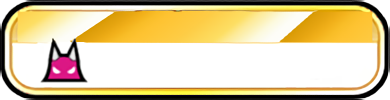
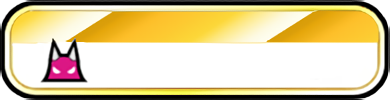
TNDE 選曲: 自己ベストの帯を枠の形に沿ってなめらかに描き直し、ランクの縁を少し太く
Claude-Session: https://claude.ai/code/session_01Me3BaKaMLtBydUuL8JSFsg

diff --git a/src/home/tndeselect.ts b/src/home/tndeselect.ts
@@ -213,6 +213,28 @@ export class TndeSelect {
     }
   }
 
+  private sils = new Map<string, Img>();
+  /** 絵の形だけを黒くしたもの（縁を太くするのに使う） */
+  private silhouette(name: string): Img | undefined {
+    const have = this.sils.get(name);
+    if (have) return have;
+    const m = this.imgs.get(name);
+    if (!m) return undefined;
+    const o = document.createElement('canvas');
+    o.width = m.im.width; o.height = m.im.height;
+    const g = o.getContext('2d')!;
+    g.drawImage(m.im, 0, 0);
+    g.globalCompositeOperation = 'source-in';
+    g.fillStyle = '#120c10';
+    g.fillRect(0, 0, o.width, o.height);
+    const r = { ...m, im: o };
+    this.sils.set(name, r);
+    return r;
+  }
+  private blitImg(m: Img | undefined, sx: number, sy: number, sw: number, sh: number, dx: number, dy: number, dw: number, dh: number) {
+    if (m) this.g.drawImage(m.im, (sx - m.x) * m.k, (sy - m.y) * m.k, sw * m.k, sh * m.k, dx, dy, dw, dh);
+  }
+
   private tints = new Map<string, Img>();
   /** 絵の色を塗り替える（もとの色 base からの明るさの比で。黒い縁はそのまま） */
   private tinted(name: string, base: number[], to: number[], skip?: (r: number, g: number, b: number) => boolean): Img | undefined {
@@ -928,7 +950,16 @@ export class TndeSelect {
       // 王冠・ランクは本家の画面に絵を重ねて測った位置・大きさ
       this.blit('diffCrown', cr * 24.5, 0, 24.5, 26, x + 21, 405 + 23, 24.5 * 1.47, 26 * 1.47);
       const r = b ? rankOf(b.score) : 0;
-      if (r > 0) this.blit('diffRank', 0, (r - 1) * 42.71, 50, 42.71, x + 56, 405 + 20, 50 * 0.89, 42.71 * 0.89);
+      if (r > 0) {
+        // 本家はランクの黒い縁が少し太い: 黒い影を周りに少しずらして重ねてから描く
+        // （影は上の 2 px を切る。1 つ上のランクの端が少しかかっているため）
+        const sy = (r - 1) * 42.71, k = 0.89, R = 1.2;
+        for (let a = 0; a < 16; a++) {
+          const ox = Math.cos((a / 16) * Math.PI * 2) * R, oy = Math.sin((a / 16) * Math.PI * 2) * R;
+          this.blitImg(this.silhouette('diffRank'), 0, sy + 2, 50, 40.71, x + 56 + ox, 405 + 20 + 2 * k + oy, 50 * k, 40.71 * k);
+        }
+        this.blit('diffRank', 0, sy, 50, 42.71, x + 56, 405 + 20, 50 * k, 42.71 * k);
+      }
     });
     // 1P の吹き出し（出てくるとき下りてくる。動かすと少し跳ねる）
     const inT = (this.diffT - 1255) / 4;

diff --git a/tools/skin/select.py b/tools/skin/select.py
@@ -136,57 +136,68 @@ for n in ['Credit', 'Point']:
 
 
 # 本家の自己ベストの帯の色（段の左の縁から右の縁までを 0〜1 として → RGB。本家の画面からスポイトで取った）
-BAND = [(0, (216, 155, 4)), (0.03, (221, 158, 11)), (0.094, (231, 166, 18)), (0.156, (242, 177, 27)), (0.22, (249, 190, 40)),
-        (0.28, (254, 195, 49)), (0.5, (254, 205, 70)), (0.68, (253, 223, 100)), (0.74, (254, 234, 150)), (0.8, (252, 242, 185)),
-        (0.86, (252, 250, 223)), (0.93, (253, 253, 247)), (1, (254, 254, 250))]
-
-
-def band_rgb(t):
-    xs = [b[0] for b in BAND]
-    return np.array([np.interp(t, xs, [b[1][c] for b in BAND]) for c in range(3)])
+BAND = [(0, (216, 157, 8)), (0.06, (219, 159, 12)), (0.1, (230, 167, 11)), (0.14, (234, 172, 20)), (0.18, (239, 178, 26)),
+        (0.22, (248, 185, 35)), (0.26, (253, 191, 41)), (0.3, (254, 194, 45)), (0.45, (253, 203, 50)), (0.58, (252, 213, 55)),
+        (0.62, (253, 216, 58)), (0.66, (253, 222, 82)), (0.7, (253, 229, 114)), (0.74, (253, 234, 141)), (0.78, (254, 239, 165)),
+        (0.82, (254, 243, 188)), (0.86, (253, 247, 210)), (0.9, (253, 250, 227)), (0.95, (254, 253, 236)), (1, (255, 254, 240))]
+def ramp(tab, t):
+    xs = [b[0] for b in tab]
+    return np.stack([np.interp(t, xs, [b[1][c] for b in tab]) for c in range(3)], -1)
 
 
 def delabel(im):
     """自己ベストの枠の「ベストスコア」の字を消し、金の帯を本家の色と光に描き直す（字は描くときに書く）。
-    本家の帯は、斜めの縁（/）で区切られた 3 つの段で、どの段も縁の右で濃い金、右へ行くほど明るくなり次の縁の手前で白に。
-    縁の位置と色は本家の画面に重ねて測った"""
+    本家の帯は、同じ傾きの 2 本の斜めの縁（/）で 3 つの段に分かれ、どの段も縁の右で濃い金、
+    右へ行くほど明るくなり次の縁の手前で白になる。縁の位置・傾き・色は本家の画面に重ねて測った。
+    黒い縁とそのすぐ内側の細い縁は元の絵のまま（金だけ本家の濃さに）。帯は、枠の形（角の丸い長方形）の
+    内側だけに、4×4 で平均したなめらかな境目で重ねる"""
     from scipy import ndimage
-    p = im[384:434, 26:221].astype(np.float32)
+    X0, Y0, W, H = 26, 384, 195, 50
+    p = im[Y0:Y0 + H, X0:X0 + W].astype(np.float32)
     o = p.copy()
-    E1 = lambda y: 56 - 1.5 * (y - 6)     # 左の光から金に変わる縁
-    E2 = lambda y: 155.6 - 1.14 * (y - 6)  # 右の光から金に変わる縁
-    # 左下の鬼の印は残す（黒い縁とその中・赤紫）
     rgb = o[:, :, 2::-1]
+    # 左下の鬼の印は残す（黒い縁とその中・赤紫）
     dark = rgb.sum(2) < 450
     mag = (rgb[:, :, 0] > 120) & (rgb[:, :, 1] < 120)
     keep = np.zeros(dark.shape, bool)
     keep[14:, 18:45] = ndimage.binary_fill_holes((dark | mag)[14:, 18:45])
-    for y in range(6, 21):
-        for x in range(9, 186):
-            if keep[y, x]:
-                continue
-            acc = np.zeros(3)
-            for sy in (0.125, 0.375, 0.625, 0.875):  # 縁がぎざぎざにならないよう 4×4 で平均
-                e1, e2 = E1(y - 0.5 + sy), E2(y - 0.5 + sy)
-                for sx in (0.125, 0.375, 0.625, 0.875):
-                    u = x - 0.5 + sx
-                    t = (u - e1 + 100) / 100 if u < e1 else ((u - e1) / (e2 - e1) if u < e2 else (u - e2) / 100)
-                    acc += band_rgb(t)
-            p[y, x, :3] = (acc / 16)[::-1]
-    # 帯の下の細い線と白い所は横に同じなので、字の無い列から写す
-    for y in range(21, 26):
-        p[y, 56:152] = o[y, 155:156]
-    # 上下の細い線・両端の丸い所の金を、本家の濃い金に（白からの差を G 1.55 倍・B 1.25 倍）
-    q = p[:, :, :3]
-    R, G, B = q[:, :, 2], q[:, :, 1], q[:, :, 0]
-    gold = (R > 170) & (R >= G) & (G >= B) & (R - B > 25)
-    band = np.zeros(gold.shape, bool)
-    band[6:21, 9:186] = True
-    m = gold & ~band
-    q[:, :, 1] = np.where(m, 255 - (255 - G) * 1.55, G)
-    q[:, :, 0] = np.where(m, 255 - (255 - B) * 1.25, B)
+    # 上の細い縁にかかった字の端は、字の左右の色を横になめらかにつないで埋める
+    tt = (np.arange(56, 153) - 55) / (153 - 55)
+    for yy_ in range(3, 6):
+        p[yy_, 56:153] = o[yy_, 55] * (1 - tt[:, None]) + o[yy_, 153] * tt[:, None]
+    rgb = p[:, :, 2::-1].copy()
+    # 細い縁の金を本家の濃さに（暗い金ほど濃く）
+    R, G, B = rgb[..., 0], rgb[..., 1], rgb[..., 2]
+    gold = (R > 150) & (R >= G) & (G >= B) & (R - B > 25)
+    w = np.where(gold, np.clip((120 - B) / 50, 0, 1), 0)
+    p[..., 2] = R + (R * 0.93 - R) * w
+    p[..., 1] = G + ((255 - (255 - G) * 1.6) - G) * w
+    p[..., 0] = B + (B * 0.5 - B) * w
+    # 枠の形: 外の縁 x 0.2〜194.8・y 0.1〜49.9、角の丸み 16。帯は外の縁から 5.8 より内側で、y 21 まで
+    S = 4
+    yy, xx = np.mgrid[0:H * S, 0:W * S]
+    y = (yy + 0.5) / S
+    x = (xx + 0.5) / S
+    r = 16.0
+    cx = np.clip(x, 0.2 + r, 194.8 - r)
+    cy = np.clip(y, 0.1 + r, 49.9 - r)
+    din = r - np.hypot(x - cx, y - cy)  # 外の縁から内へのきょり
+    inside = (din >= 5.8) & (y < 21.0)
+    K = 1.58
+    e1 = 44.9 - K * (y - 13.125)
+    e2 = 145.3 - K * (y - 13.125)
+    L = e2 - e1
+    t = np.where(x < e1, (x - e1 + L) / L, np.where(x < e2, (x - e1) / L, (x - e2) / L))
+    col = ramp(BAND, np.clip(t, 0, 1)) * inside[..., None]
+    a = inside.astype(np.float32).reshape(H, S, W, S).mean((1, 3))
+    col = col.reshape(H, S, W, S, 3).sum((1, 3)) / np.maximum(a * S * S, 1e-6)[..., None]
+    a = np.where(keep, 0, a)[..., None]
+    p[..., :3] = p[..., :3] * (1 - a) + col[..., ::-1] * a
+    # 帯の下の細い線と白い所（字の下の端がかかる所）は横に同じなので、字の無い列から写す
+    for yy_ in range(21, 26):
+        p[yy_, 56:152] = o[yy_, 155:156]
     im = im.copy()
-    im[384:434, 26:221] = np.clip(p, 0, 255).astype(np.uint8)
+    im[Y0:Y0 + H, X0:X0 + W] = np.clip(p, 0, 255).astype(np.uint8)
     return im
 
 
